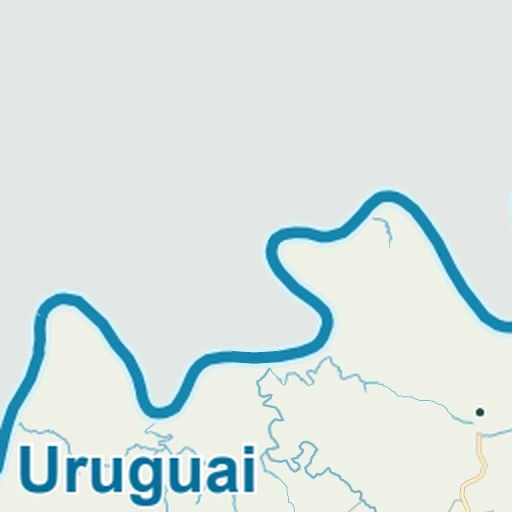
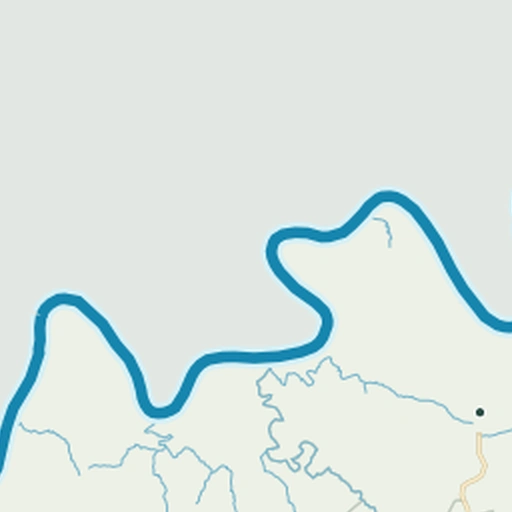
Att

diff --git a/map-assets.js b/map-assets.js
@@ -1,2 +1,2 @@
 // Generated map delivery manifest. Full-size tiles preserve the source pixels.
[2 lines of base64/hex data omitted]

diff --git a/index.html b/index.html
@@ -12,7 +12,7 @@
   <script src="map-assets.js?revisao=79"></script>
   <script>document.documentElement.style.setProperty('--cover-preview', `url("${MAP_ASSETS.cover.tiny}")`);</script>
   <link rel="stylesheet" href="styles.css?revisao=78" />
-  <link rel="stylesheet" href="design.css?revisao=97" />
+  <link rel="stylesheet" href="design.css?revisao=100" />
 </head>
 <body>
   <main id="experience">

diff --git a/tools/remove_city_labels.py b/tools/remove_city_labels.py
@@ -31,6 +31,12 @@ KEEP_MEDIUM_CITIES = {
     "torres", "tramandai", "vacaria", "venancio aires",
 }
 
+# This oversized river caption conflicts with the Porto Maua callout. The PDF
+# draws every label twice (white outline, then blue fill), at the same origin.
+PORTO_MAUA_URUGUAI_LABEL_ORIGIN = (2264.967, 5239.829)
+MODERN_LABEL_CHANGE_BOUNDS = (2990, 950, 3230, 1040)
+MODERN_ASSET_REVISION = "100"
+
 
 def normalize_label(value: object) -> str:
     """Normalize the PDF's custom single-byte accent encoding for matching."""
@@ -64,18 +70,22 @@ def shown_text(operands: list[object], operator: bytes) -> str:
     return str(operands[0])
 
 
-def build_clean_pdf(source: Path, destination: Path) -> tuple[int, int]:
+def build_clean_pdf(source: Path, destination: Path) -> tuple[int, int, int]:
     reader = PdfReader(source)
     page = reader.pages[0]
     content = ContentStream(page.get_contents(), reader)
     current_font_size = 0.0
     removed_cities = 0
     removed_lajeados = 0
+    removed_uruguai_labels = 0
+    text_origin: tuple[float, float] | None = None
     cleaned_operations = []
 
     for operands, operator in content.operations:
         if operator == b"Tf":
             current_font_size = float(operands[1])
+        elif operator == b"Tm":
+            text_origin = (float(operands[4]), float(operands[5]))
 
         remove = False
         if operator in {b"Tj", b"TJ", b"'", b'"'}:
@@ -90,6 +100,11 @@ def build_clean_pdf(source: Path, destination: Path) -> tuple[int, int]:
             elif 16.9 <= current_font_size <= 17.1 and not is_kept_city(label):
                 removed_cities += 1
                 remove = True
+            elif label == "rio uruguai" and text_origin is not None:
+                target_x, target_y = PORTO_MAUA_URUGUAI_LABEL_ORIGIN
+                if abs(text_origin[0] - target_x) < 0.01 and abs(text_origin[1] - target_y) < 0.01:
+                    removed_uruguai_labels += 1
+                    remove = True
 
         if not remove:
             cleaned_operations.append((operands, operator))
@@ -100,7 +115,7 @@ def build_clean_pdf(source: Path, destination: Path) -> tuple[int, int]:
     writer.add_page(page)
     with destination.open("wb") as output:
         writer.write(output)
-    return removed_cities, removed_lajeados
+    return removed_cities, removed_lajeados, removed_uruguai_labels
 
 
 def render_site_asset(source_pdf: Path, destination_png: Path) -> tuple[int, int]:
@@ -136,6 +151,29 @@ def generate_delivery_assets(image_path: Path, assets_dir: Path, manifest_path: 
                     exact=True,
                 )
 
+    # The two higher-density levels are intentionally tiled without allocating
+    # a 16K/32K full-frame bitmap. Only tiles intersecting the edited caption
+    # need to be refreshed; resize(box=...) preserves the shared source grid.
+    x1, y1, x2, y2 = MODERN_LABEL_CHANGE_BOUNDS
+    for level in (16000, 32000):
+        scale = level / image.width
+        level_dir = tile_root / str(level)
+        level_dir.mkdir(parents=True, exist_ok=True)
+        first_col = int(x1 * scale) // 512
+        last_col = int((x2 * scale - 1) // 512)
+        first_row = int(y1 * scale) // 512
+        last_row = int((y2 * scale - 1) // 512)
+        for row in range(first_row, last_row + 1):
+            for col in range(first_col, last_col + 1):
+                source_box = (
+                    col * 512 / scale,
+                    row * 512 / scale,
+                    (col + 1) * 512 / scale,
+                    (row + 1) * 512 / scale,
+                )
+                tile = image.resize((512, 512), Image.Resampling.LANCZOS, box=source_box)
+                tile.save(level_dir / f"{col}-{row}.webp", "WEBP", quality=96, method=6, exact=True)
+
     preview = image.resize((2400, 2400), Image.Resampling.LANCZOS)
     preview.save(assets_dir / "map-modern-preview.webp", "WEBP", quality=94, method=6, exact=True)
     tiny = image.resize((256, 256), Image.Resampling.LANCZOS)
@@ -149,6 +187,8 @@ def generate_delivery_assets(image_path: Path, assets_dir: Path, manifest_path: 
     header = text[:prefix_at]
     manifest = json.loads(text[prefix_at + len(prefix):].rstrip().rstrip(";"))
     manifest["modern"]["tiny"] = tiny_url
+    for level in manifest["modern"]["levels"]:
+        level["revision"] = MODERN_ASSET_REVISION
     manifest_path.write_text(header + prefix + json.dumps(manifest, separators=(",", ":")) + ";\n", encoding="utf-8")
 
 
@@ -162,12 +202,13 @@ def main() -> None:
 
     with tempfile.TemporaryDirectory(prefix="expedicao-map-") as temp_dir:
         clean_pdf = Path(temp_dir) / "mapa-simplificado.pdf"
-        cities, lajeados = build_clean_pdf(args.source, clean_pdf)
+        cities, lajeados, uruguai_labels = build_clean_pdf(args.source, clean_pdf)
         width, height = render_site_asset(clean_pdf, args.destination)
     if args.assets_dir and args.manifest:
         generate_delivery_assets(args.destination, args.assets_dir, args.manifest)
 
     print(f"Removed {cities} municipal-label and {lajeados} lajeado text operations")
+    print(f"Removed {uruguai_labels} Rio Uruguai text operations at Porto Maua")
     print(f"Rendered {width}x{height}: {args.destination}")
 
 
